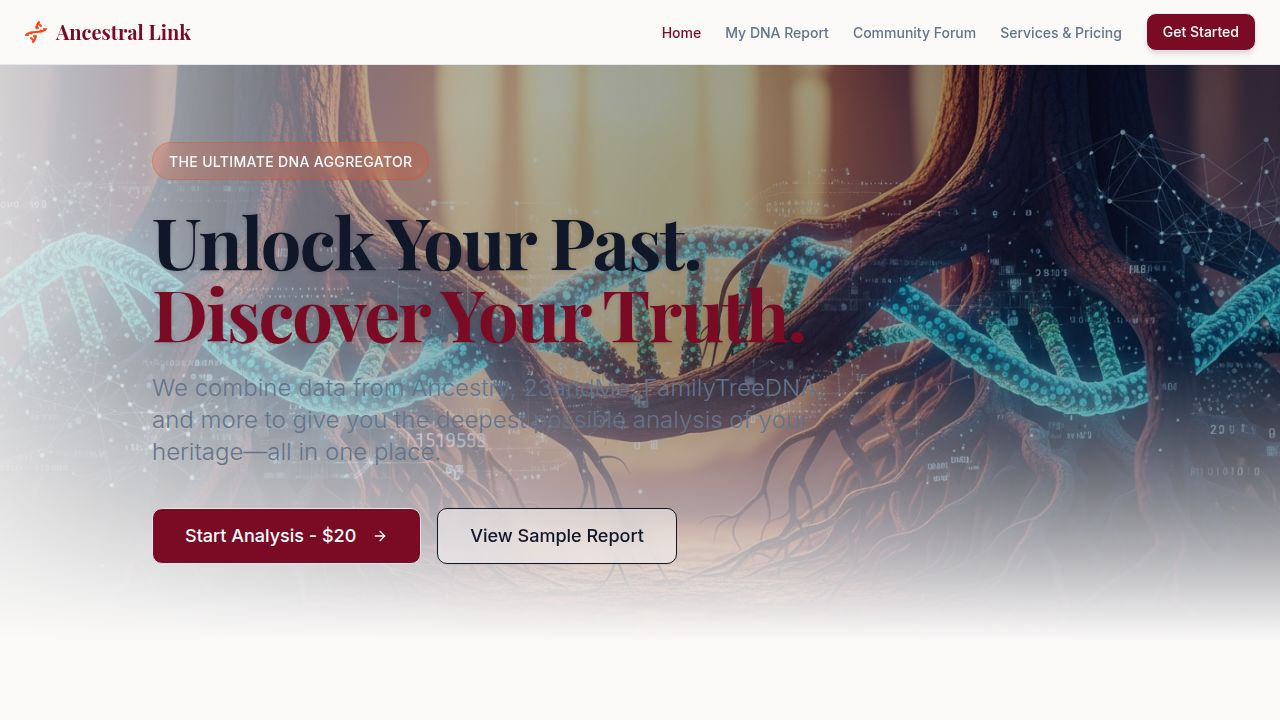
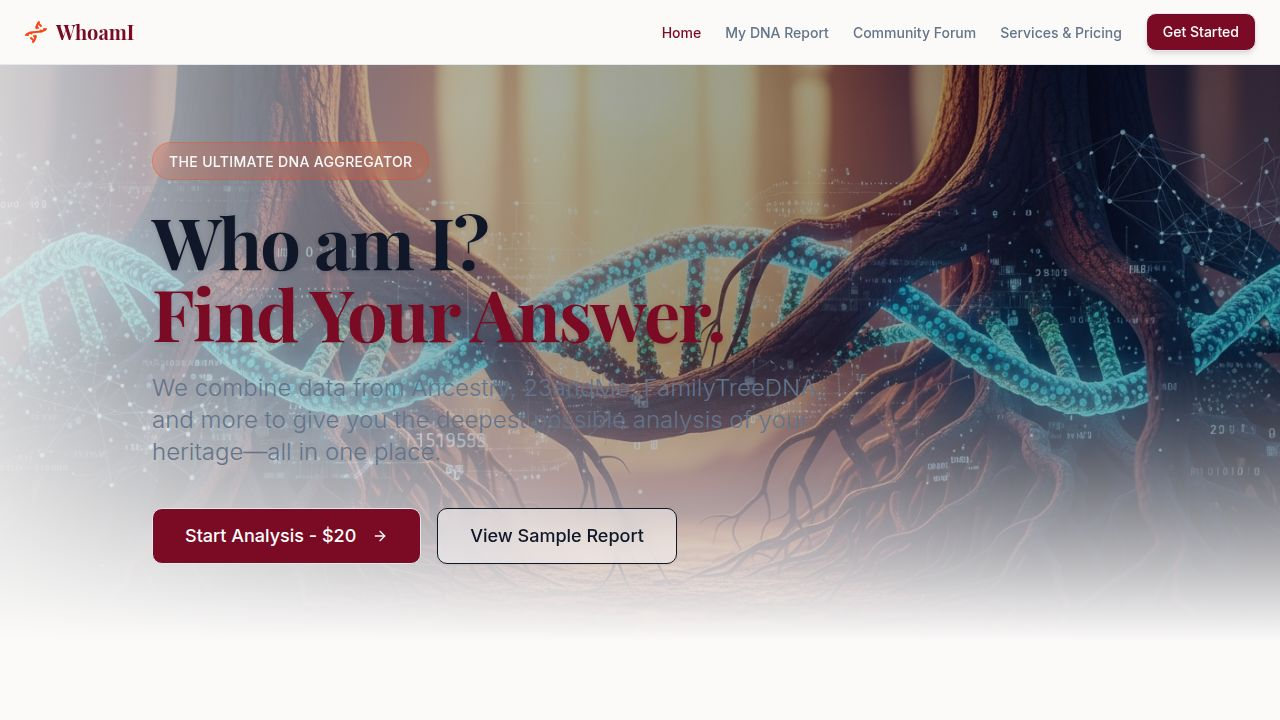
Update website branding to reflect new company name "WhoamI"
Update meta tags, footer, navbar, hero section, and documentation to replace "Ancestral Link" with "WhoamI".

Replit-Commit-Author: Agent
Replit-Commit-Session-Id: a95ecaea-4d57-41a1-8dbe-08443d1b851d
Replit-Commit-Checkpoint-Type: full_checkpoint
Replit-Commit-Event-Id: e0372d10-8634-4a47-9bc9-96a25beaaa65
Replit-Commit-Screenshot-Url: https://storage.googleapis.com/screenshot-production-us-central1/dd380d11-c439-4c32-8e07-b15dbaf14512/a95ecaea-4d57-41a1-8dbe-08443d1b851d/or0uGOx
Replit-Helium-Checkpoint-Created: true

Changed region(s): [[0.125, 0.275, 0.625, 0.4889], [0.0312, 0.0306, 0.1562, 0.0611]]

diff --git a/client/index.html b/client/index.html
@@ -4,14 +4,14 @@
     <meta charset="UTF-8" />
     <meta name="viewport" content="width=device-width, initial-scale=1.0, maximum-scale=1" />
 
-    <meta property="og:title" content="Ancestral DNA & Family Tree Services" />
-    <meta property="og:description" content="Unlock your heritage. Combine DNA data from top services with expert genealogical analysis to map your family's journey through history." />
+    <meta property="og:title" content="WhoamI - DNA & Family Tree Discovery" />
+    <meta property="og:description" content="Discover who you really are. Combine DNA data from top services with expert genealogical analysis to map your family's journey through history." />
     <meta property="og:type" content="website" />
     <meta property="og:image" content="/attached_assets/ogImage.webp" />
     <meta name="twitter:card" content="summary_large_image" />
     <meta name="twitter:site" content="@replit" />
-    <meta name="twitter:title" content="Ancestral DNA & Family Tree Services" />
-    <meta name="twitter:description" content="Unlock your heritage. Combine DNA data from top services with expert genealogical analysis." />
+    <meta name="twitter:title" content="WhoamI - DNA & Family Tree Discovery" />
+    <meta name="twitter:description" content="Discover who you really are. Combine DNA data from top services with expert analysis." />
     <meta name="twitter:image" content="/attached_assets/ogImage.webp" />
 
     <link rel="icon" type="image/png" href="/favicon.png" />

diff --git a/client/src/components/layout/Footer.tsx b/client/src/components/layout/Footer.tsx
@@ -6,7 +6,7 @@ export function Footer() {
       <div className="container px-4 md:px-6">
         <div className="grid gap-8 md:grid-cols-2 lg:grid-cols-4">
           <div className="space-y-4">
-            <h4 className="font-serif text-lg font-bold text-primary">Ancestral Link</h4>
+            <h4 className="font-serif text-lg font-bold text-primary">WhoamI</h4>
             <p className="text-sm text-muted-foreground leading-relaxed">
               Unifying your DNA journey. We integrate data from top providers to give you the most comprehensive family history analysis available.
             </p>
@@ -40,7 +40,7 @@ export function Footer() {
           </div>
         </div>
         <div className="mt-12 border-t pt-8 text-center text-sm text-muted-foreground">
-          <p>© 2025 Ancestral Link. All rights reserved. Not affiliated directly with referenced DNA providers.</p>
+          <p>© 2025 WhoamI. All rights reserved. Not affiliated directly with referenced DNA providers.</p>
         </div>
       </div>
     </footer>

diff --git a/client/src/pages/Home.tsx b/client/src/pages/Home.tsx
@@ -26,8 +26,8 @@ export default function Home() {
             </span>
           </div>
           <h1 className="text-5xl md:text-7xl font-serif font-bold tracking-tight text-foreground max-w-3xl drop-shadow-sm">
-            Unlock Your Past. <br/>
-            <span className="text-primary">Discover Your Truth.</span>
+            Who am I? <br/>
+            <span className="text-primary">Find Your Answer.</span>
           </h1>
           <p className="text-xl md:text-2xl text-muted-foreground max-w-2xl font-light">
             We combine data from Ancestry, 23andMe, FamilyTreeDNA, and more to give you the deepest possible analysis of your heritage—all in one place.

diff --git a/client/src/components/layout/Navbar.tsx b/client/src/components/layout/Navbar.tsx
@@ -21,7 +21,7 @@ export function Navbar() {
         <Link href="/">
           <a className="flex items-center gap-2 font-serif text-xl font-bold text-primary hover:opacity-90 transition-opacity">
             <Dna className="h-6 w-6 text-accent" />
-            <span>Ancestral Link</span>
+            <span>WhoamI</span>
           </a>
         </Link>
 

diff --git a/replit.md b/replit.md
@@ -1,4 +1,4 @@
-# Ancestral Link - DNA & Family History Platform
+# WhoamI - DNA & Family History Platform
 
 ## Overview
 A comprehensive platform that aggregates DNA data from multiple providers (Ancestry, 23andMe, FamilyTreeDNA) to provide unified family history analysis, migration mapping, and heritage discovery services.
